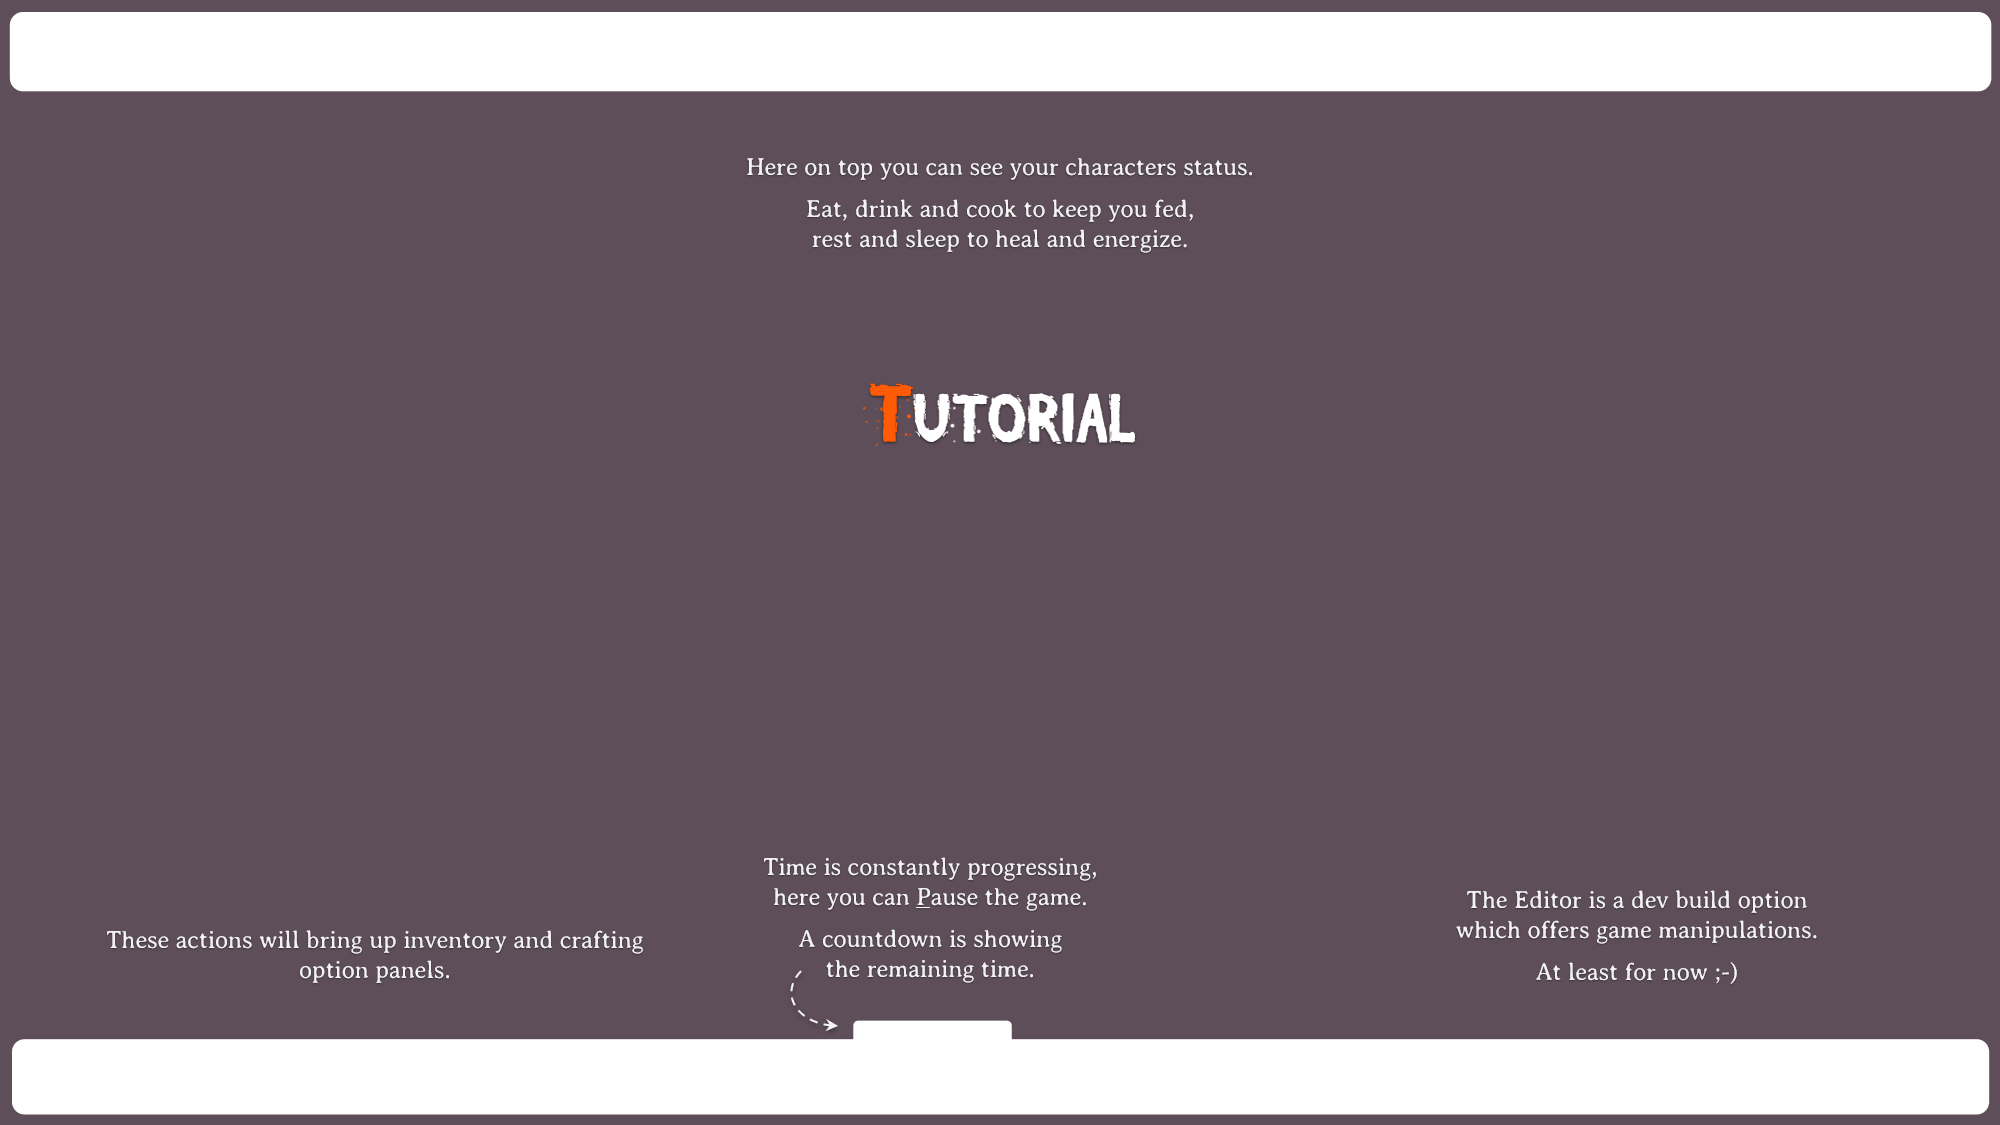
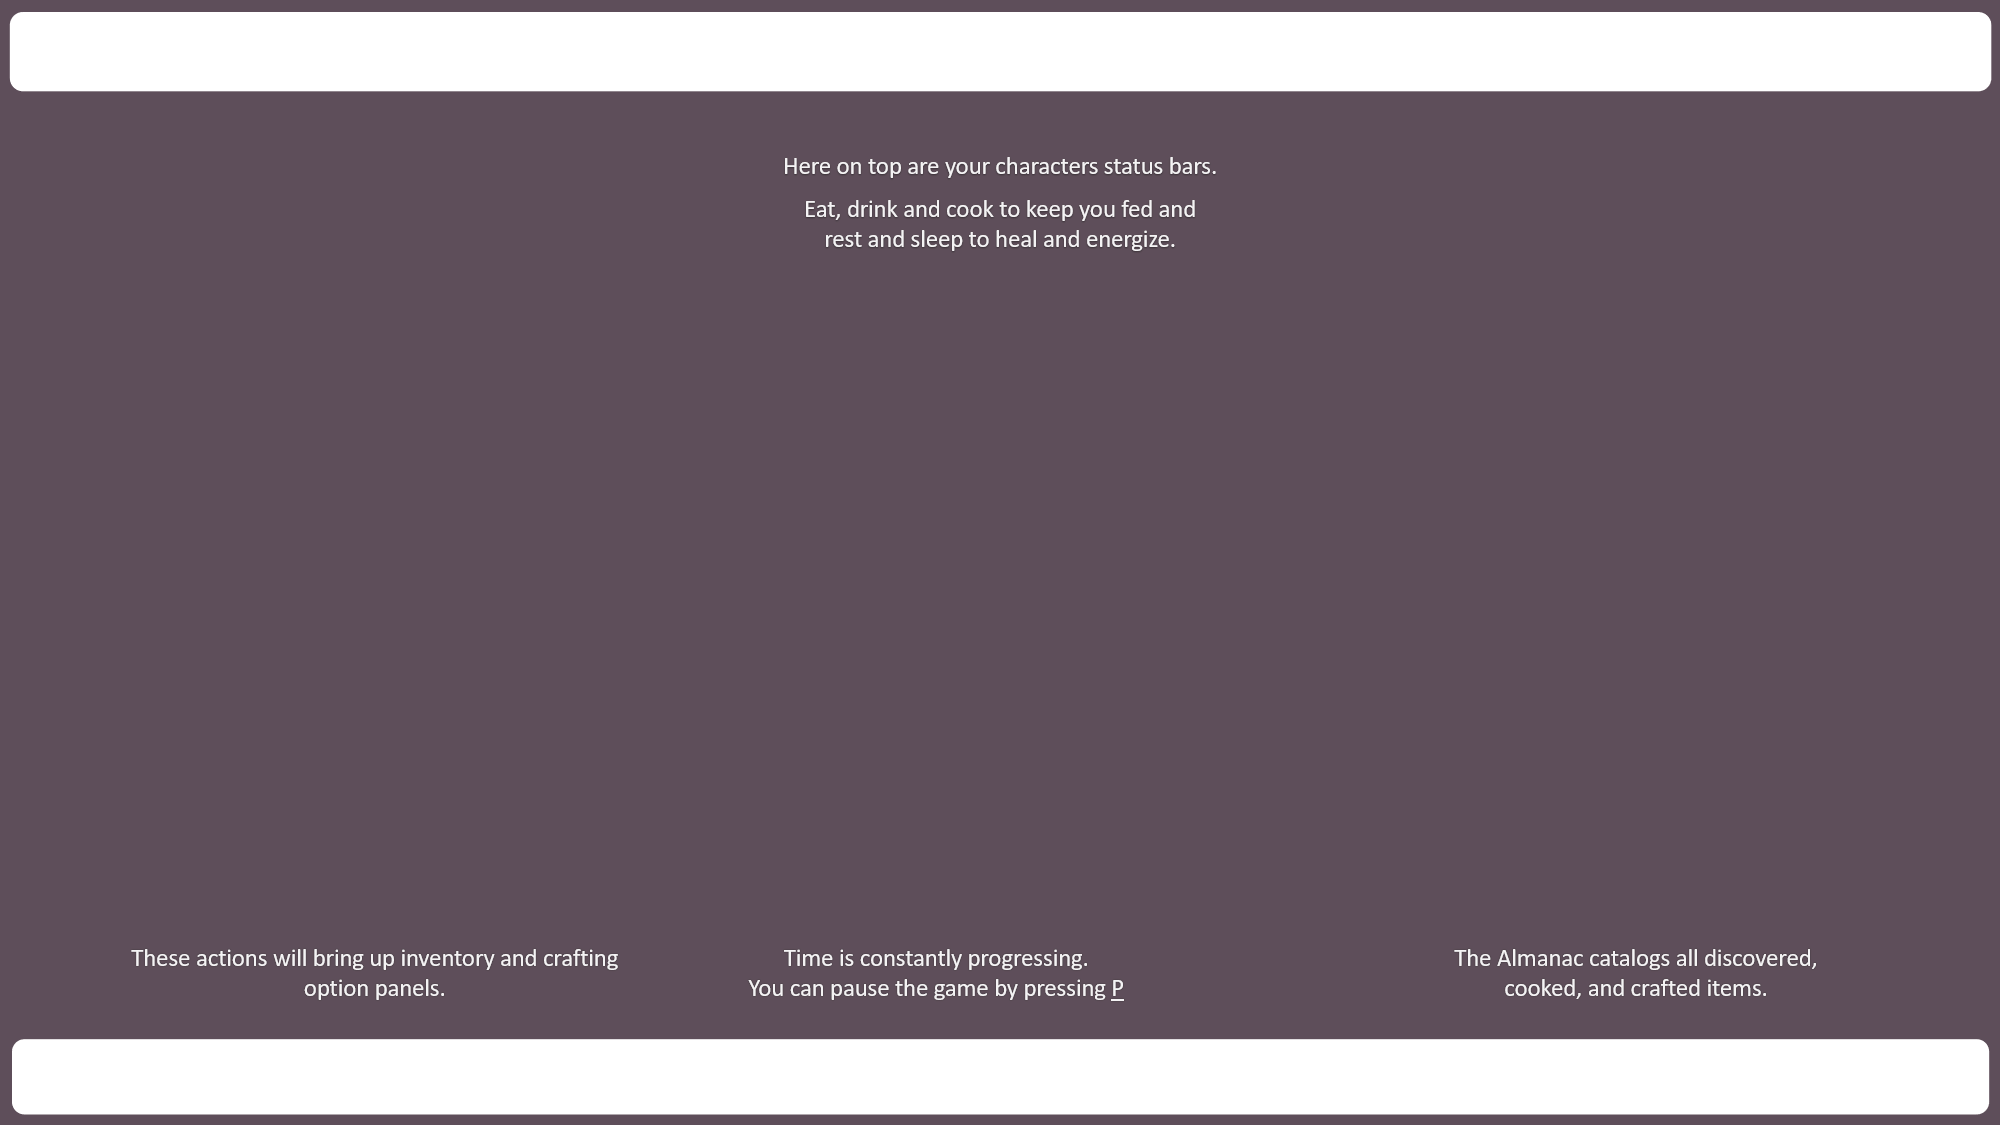
feat(ui): change key binding from 'e' to '#' for toggling card console visibility

diff --git a/js/ui.js b/js/ui.js
@@ -101,7 +101,7 @@ export default {
         c: () => actionsPanelActive && dispatch('li.craft'),
         m: () => (actionsPanelActive ? dispatch('li.map') : this.handleMapClick()),
         l: () => actionsPanelActive && dispatch('li.almanac'),
-        e: () => {
+        '#': () => {
           document.getElementById('card-console').classList.toggle('out');
         },
         q: () => actionsPanelActive && dispatch('li.quit'),
